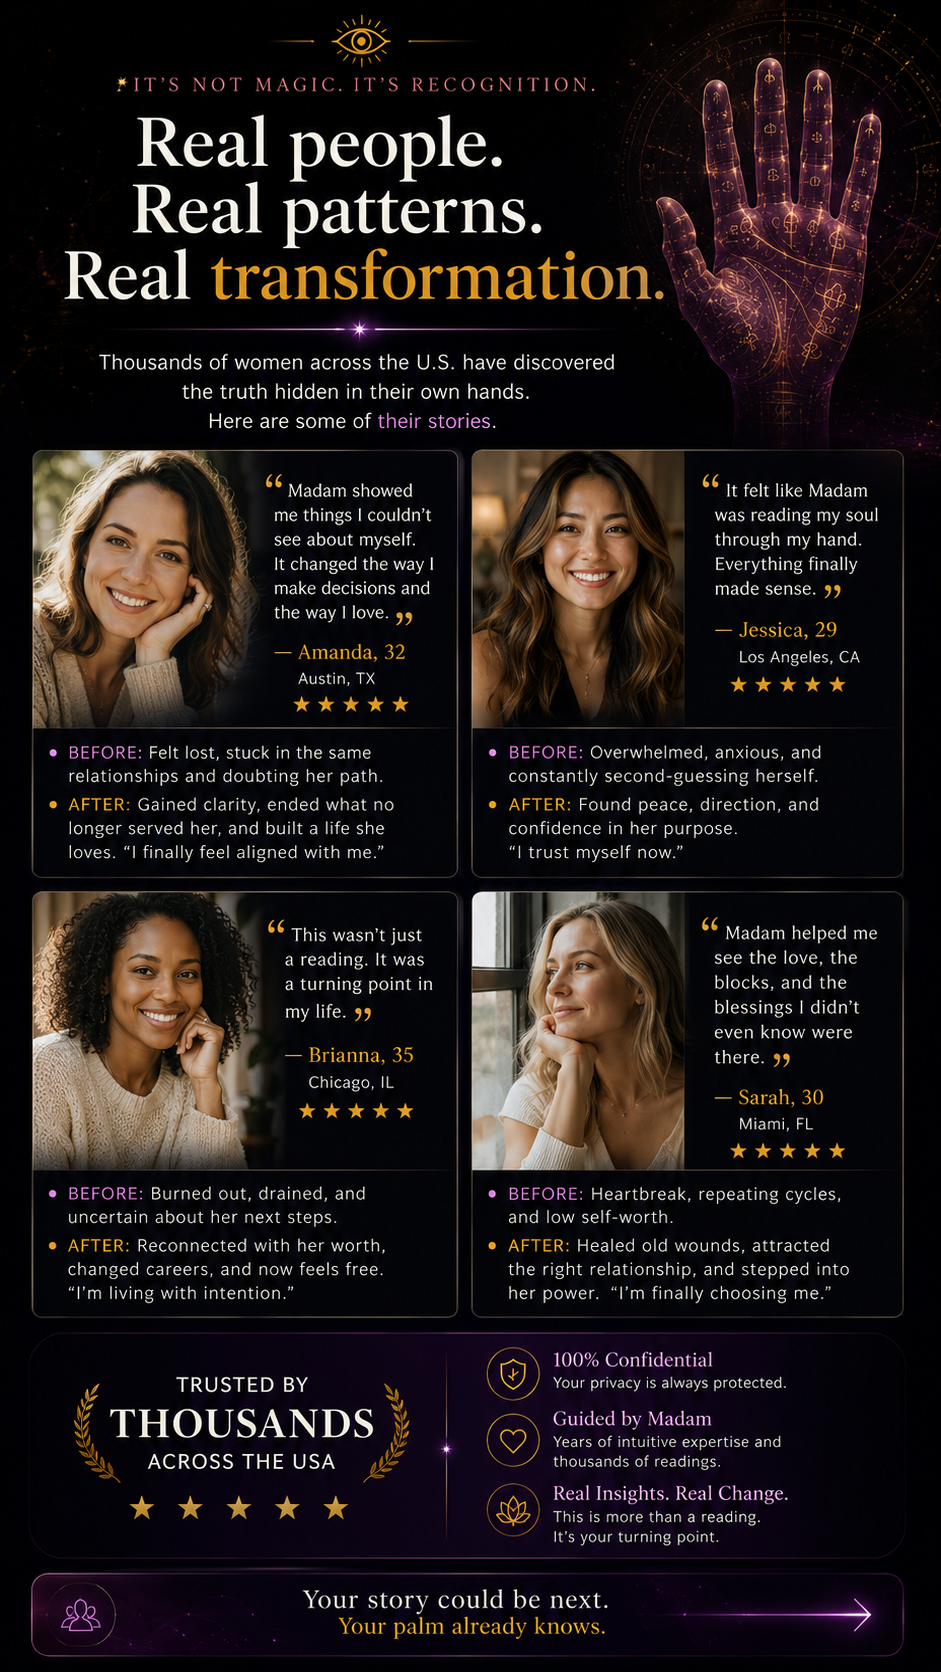
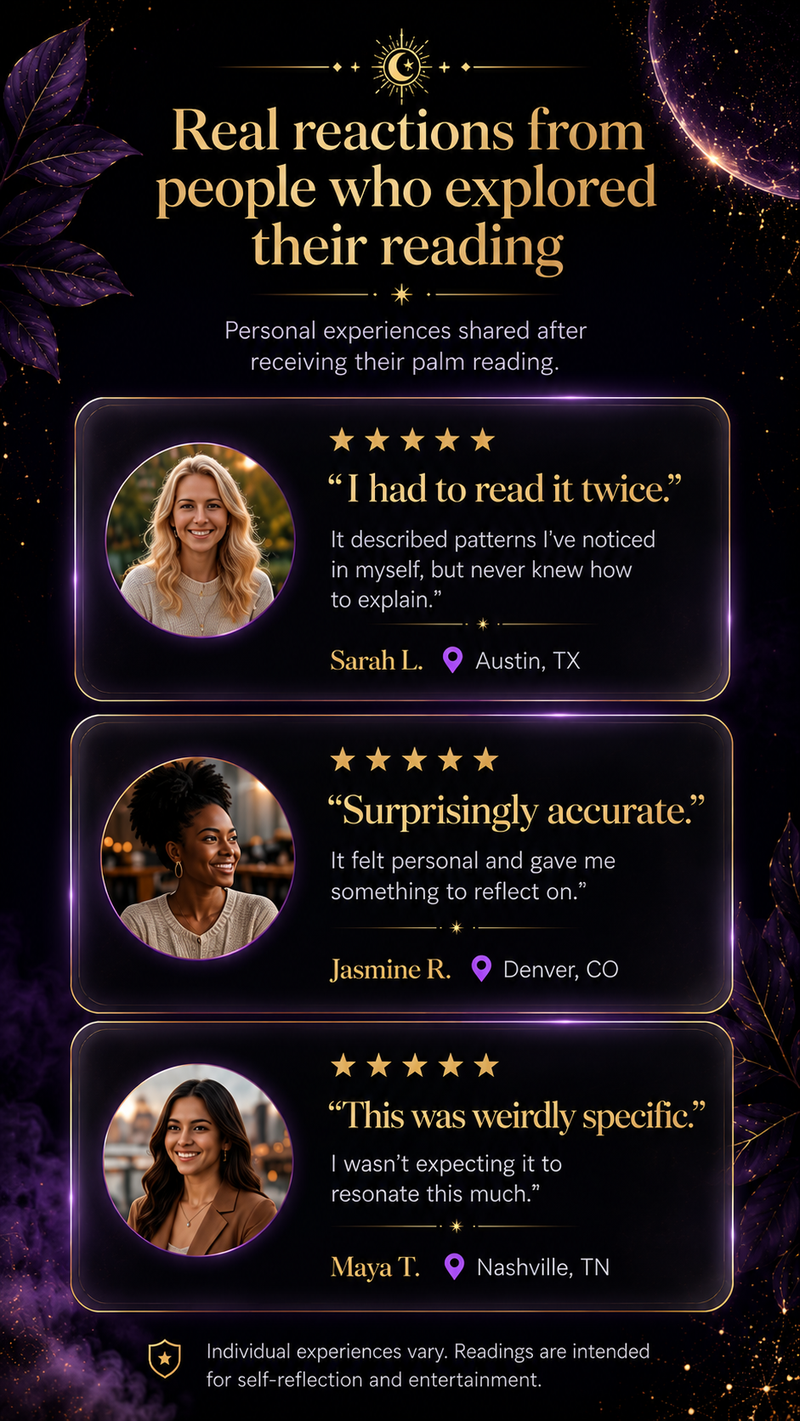
Replace social-proof section with compliant testimonial artwork
The old section-5 carried before/after outcome claims ('Healed old
wounds, attracted the right relationship', 'changed careers') plus an
unsubstantiated 'TRUSTED BY THOUSANDS' badge — FTC/TikTok ad-review
exposure. New artwork keeps only experience-based reactions, adds a
visible 'individual experiences vary / entertainment' disclaimer, and
uses US locations with visibly distinct people.

- section-5 desktop/mobile regenerated, resized to project spec
  (1600x900 / 800x1421) and re-encoded to WebP (1.9MB PNG -> ~150KB)
- Remove the section-5 CTA hotspot: the artwork's bottom strip is now
  the legal disclaimer, so the invisible pulsing button would have sent
  anyone tapping the disclaimer into the quiz. Final CTA lives in
  section 6, immediately below.
- Add real alt text to the section
- Replace remaining 'photo deleted after analysis' claims across VSL and
  delivery pages: photos persist in the palm-photos bucket, so the
  honest claim is that they are never shared or sold

Claude-Session: https://claude.ai/code/session_01MmQuKcqHcPv1wcFxC4G6jN

diff --git a/src/pages/VSL.tsx b/src/pages/VSL.tsx
@@ -448,20 +448,13 @@ const VSL = () => {
         onCtaClick={handleCTA}
       />
 
-      {/* ── SECTION 5 — SOCIAL PROOF ────────────────────────────────────── */}
+      {/* ── SECTION 5 — SOCIAL PROOF ──────────────────────────────────────
+          No CTA hotspot here: the artwork's bottom strip is the legal
+          disclaimer, not a button. The final CTA lives in section 6. */}
       <ImageSection
         desktopSrc="/landing/section-5-desktop.webp"
         mobileSrc="/landing/section-5-mobile.webp"
-        alt=""
-        ctaAreas={[
-          {
-            section: "proof",
-            desktopStyle: { left: "72%", top: "92%", width: "24%", height: "8%" },
-            mobileStyle: { left: "8%", top: "91%", width: "84%", height: "6%" },
-            label: "Discover Yours",
-          },
-        ]}
-        onCtaClick={handleCTA}
+        alt="Reactions from people who explored their palm reading"
       />
 
       {/* ── SECTION 6 — FINAL CTA ───────────────────────────────────────── */}
@@ -546,7 +539,7 @@ const VSL = () => {
         </p>
         <p className="text-[10px] text-white/14 max-w-sm mx-auto leading-relaxed">
           For entertainment and self-reflection purposes only. Not a substitute for professional advice.
-          Photo deleted after analysis. Private &amp; Secure.
+          Your photo is used only for your reading. Private &amp; Secure.
         </p>
       </footer>
 
@@ -571,7 +564,7 @@ const VSL = () => {
               Begin My Reading <ArrowRight className="w-5 h-5" />
             </CTAButton>
             <p className="text-center text-[10px] text-white/24 mt-1.5">
-              Private · Secure · Photo deleted after analysis
+              Private · Secure · Your photo is never shared or sold
             </p>
           </motion.div>
         )}

diff --git a/src/pages/EntregaLeitura.tsx b/src/pages/EntregaLeitura.tsx
@@ -205,7 +205,7 @@ const EntregaLeitura = () => {
                   </a>
                 </div>
                 <p className="text-center text-xs text-muted-foreground pb-5">
-                  Private · Encrypted · Photo deleted after analysis
+                  Private · Encrypted · Never shared or sold
                 </p>
               </div>
             )}
@@ -402,7 +402,7 @@ const EntregaLeitura = () => {
               </p>
               <p className="text-xs text-muted-foreground leading-relaxed mb-3">
                 Upload a photo of your palm to unlock personalized insights based on your actual lines.
-                Takes 30 seconds. Image deleted after analysis.
+                Takes 30 seconds. Your image is never shared or sold.
               </p>
               <a href="/foto" className="text-xs font-semibold text-mystic-gold/80 hover:text-mystic-gold transition-colors underline underline-offset-2">
                 Upload my palm photo →

diff --git a/src/pages/EntregaCombo.tsx b/src/pages/EntregaCombo.tsx
@@ -214,7 +214,7 @@ const EntregaCombo = () => {
               </p>
               <p className="text-xs text-muted-foreground leading-relaxed mb-3">
                 Optional — but it makes Aurora's analysis significantly more personal.
-                Your image is processed privately and deleted after analysis.
+                Your image is processed privately and is never shared or sold.
               </p>
               <Link to="/foto">
                 <button className="text-xs font-semibold text-mystic-gold/80 hover:text-mystic-gold transition-colors underline underline-offset-2">
